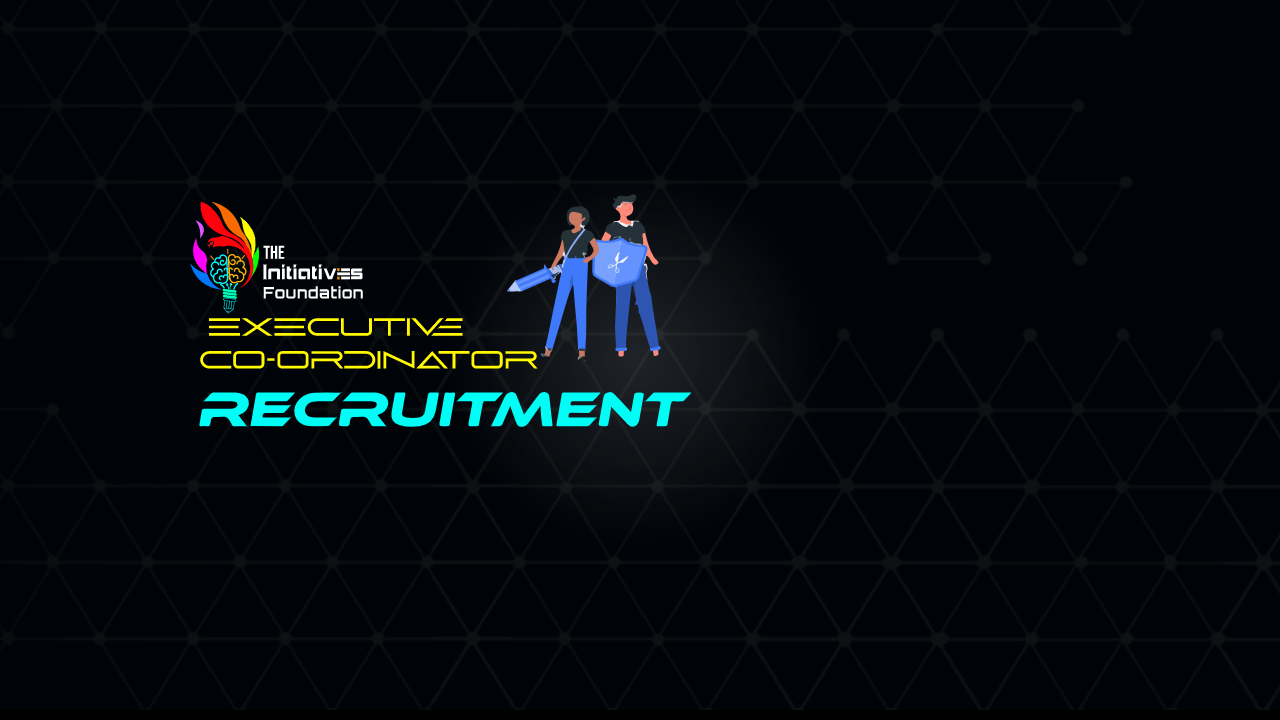
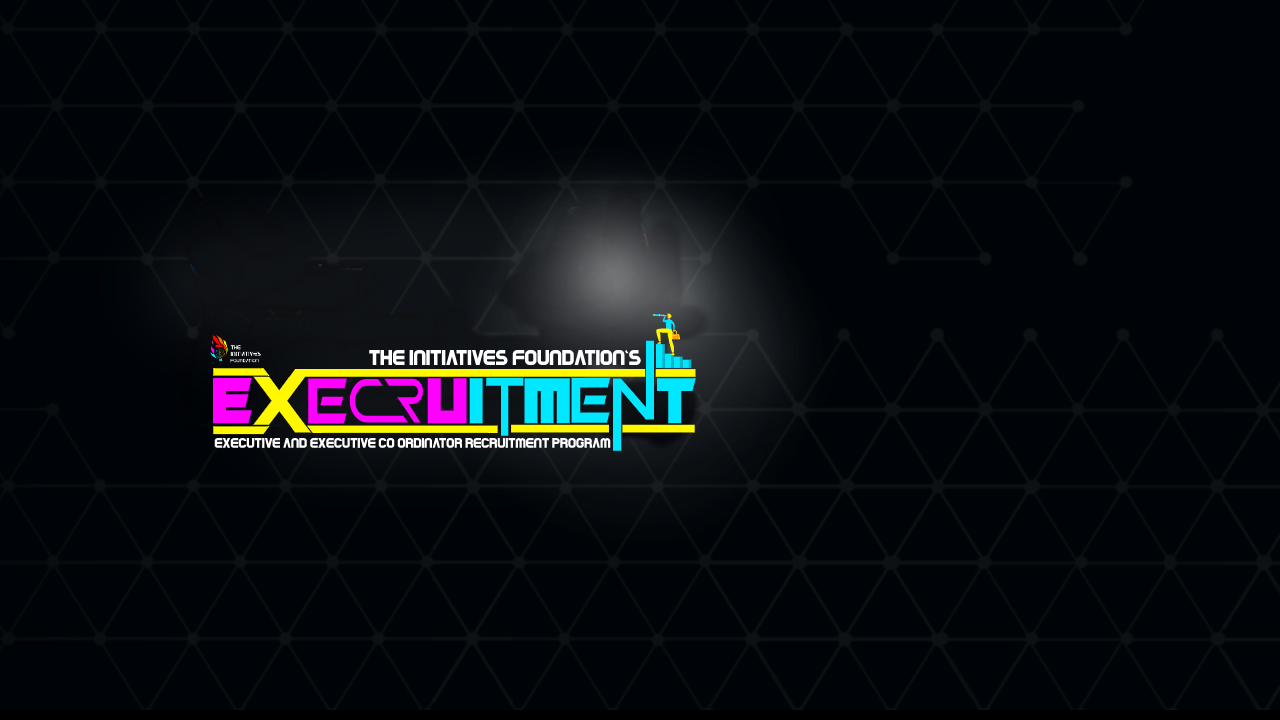
main

Changed region(s): [[0.125, 0.275, 0.5938, 0.6417]]

diff --git a/index.html b/index.html
@@ -29,7 +29,7 @@
         <header class="header">
           <a class="header--logo" href="#0">
             <img src="assets/img/logo.png" alt="Global">
-            <p>Executive Co Ordinator Recruitment</p>
+            <p>Execruitment</p>
           </a>
       
           <div class="header--nav-toggle">
